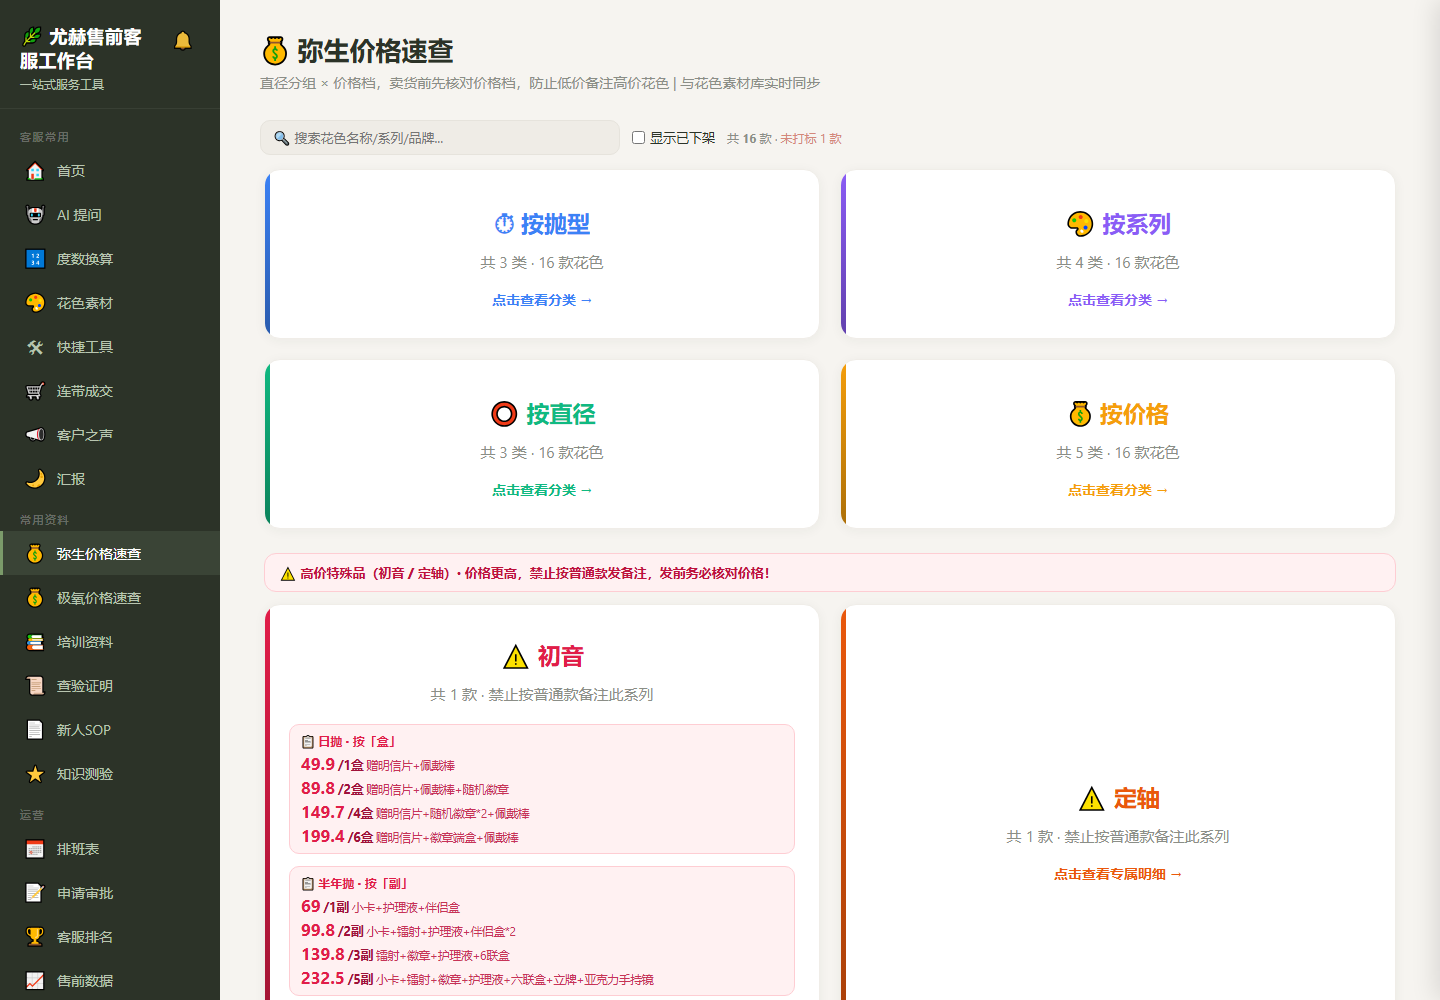
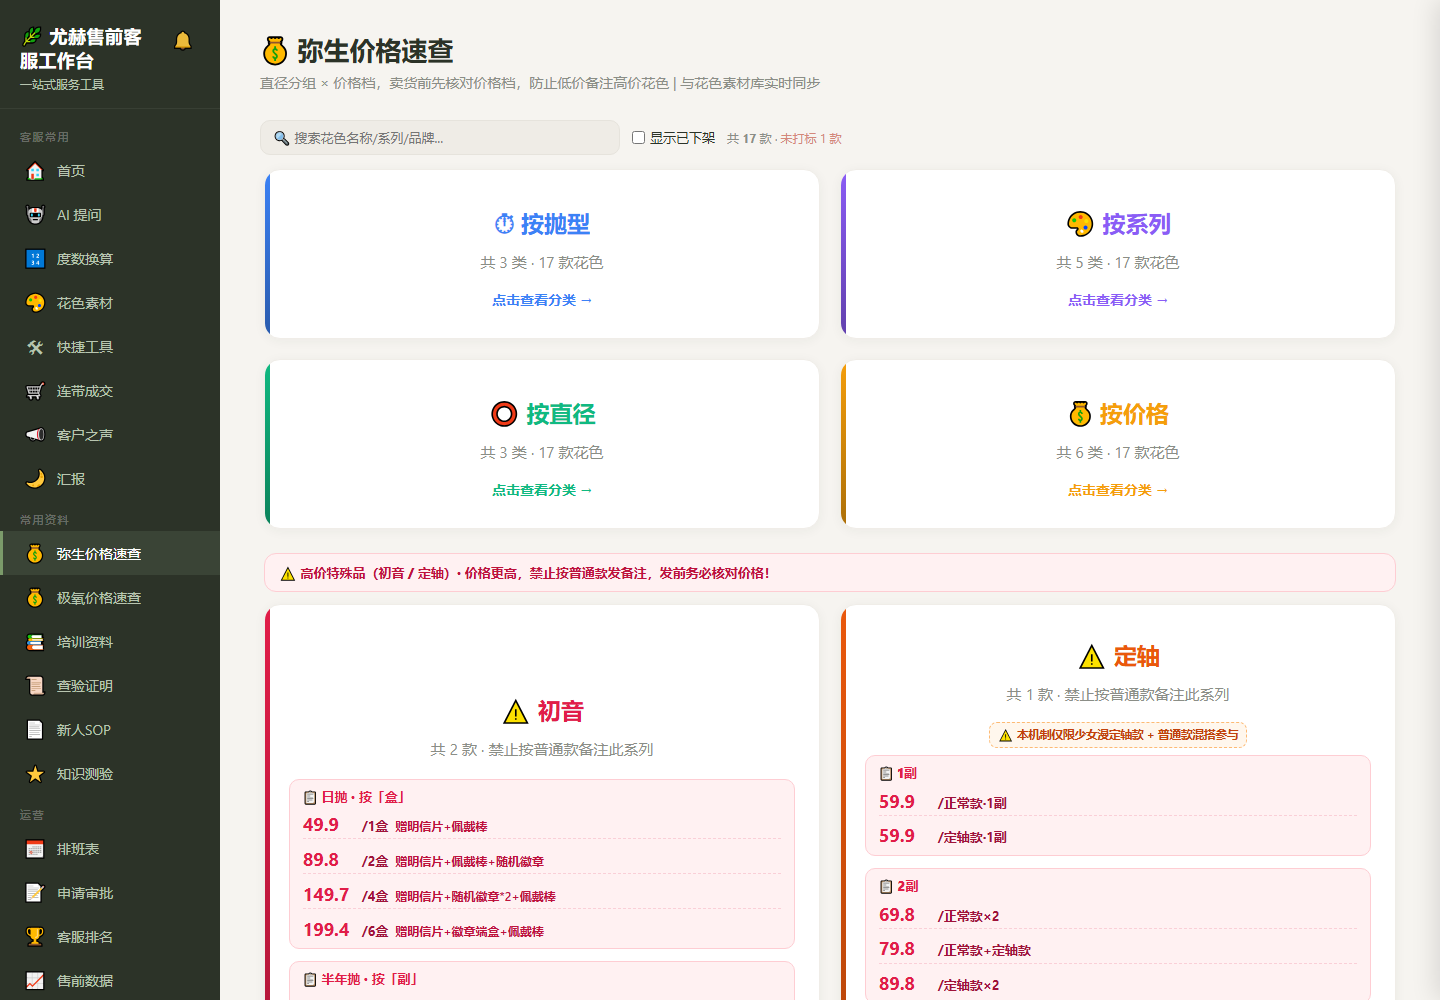
style(patterns): 特殊品红卡入口文案改为「点击查看专属花色明细 →」，刷新预览截图

diff --git a/index.html b/index.html
@@ -9891,7 +9891,7 @@ function renderPatternPricePage() {
       + '<div class="pp-tiercard-price">⚠ ' + s.label + '</div>'
       + '<div class="pp-tiercard-sub">共 ' + n + ' 款 · 禁止按普通款备注此系列</div>'
       + ppMechHtml(s)
-      + '<div class="pp-tiercard-enter">点击查看专属明细 →</div></div>';
+      + '<div class="pp-tiercard-enter">点击查看专属花色明细 →</div></div>';
   };
 
   if (!ppDimView) {
